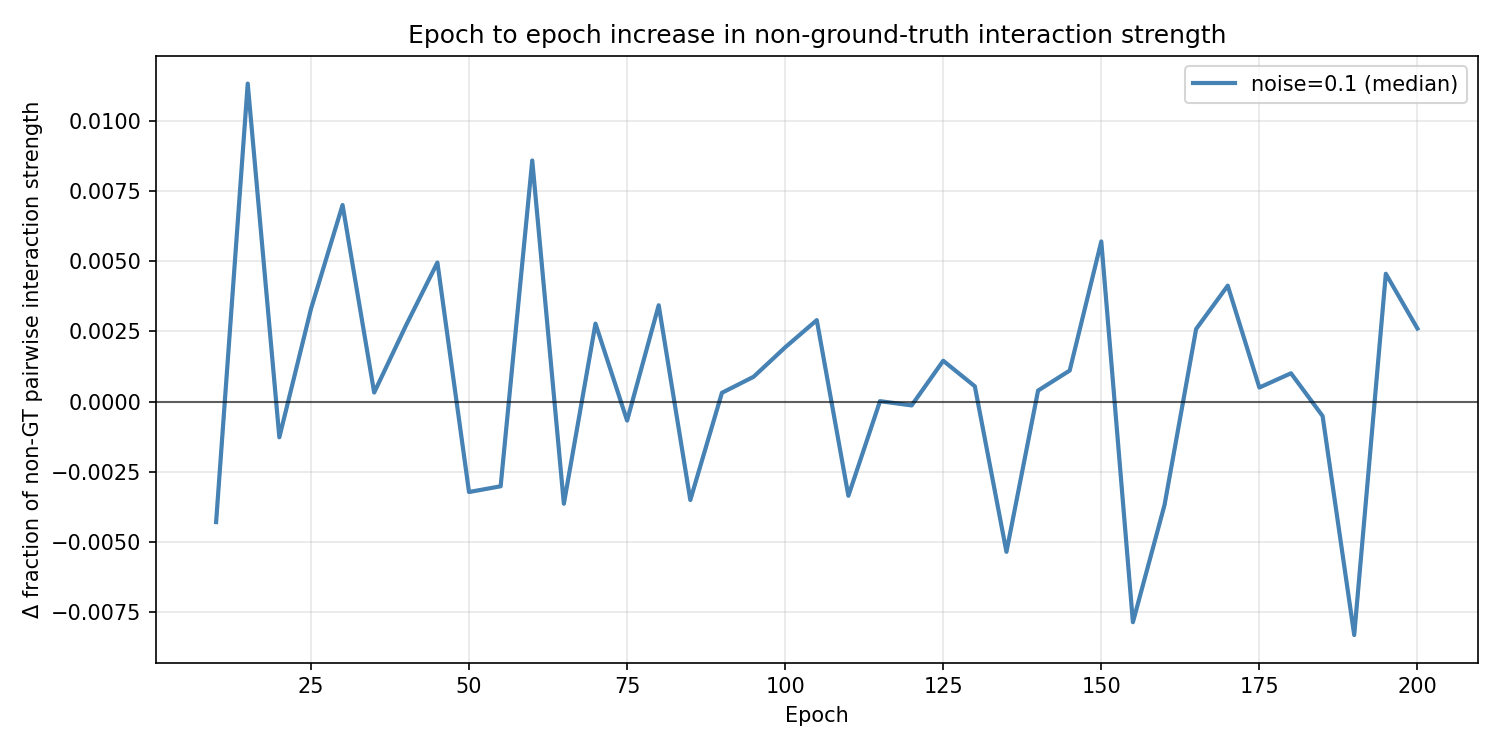
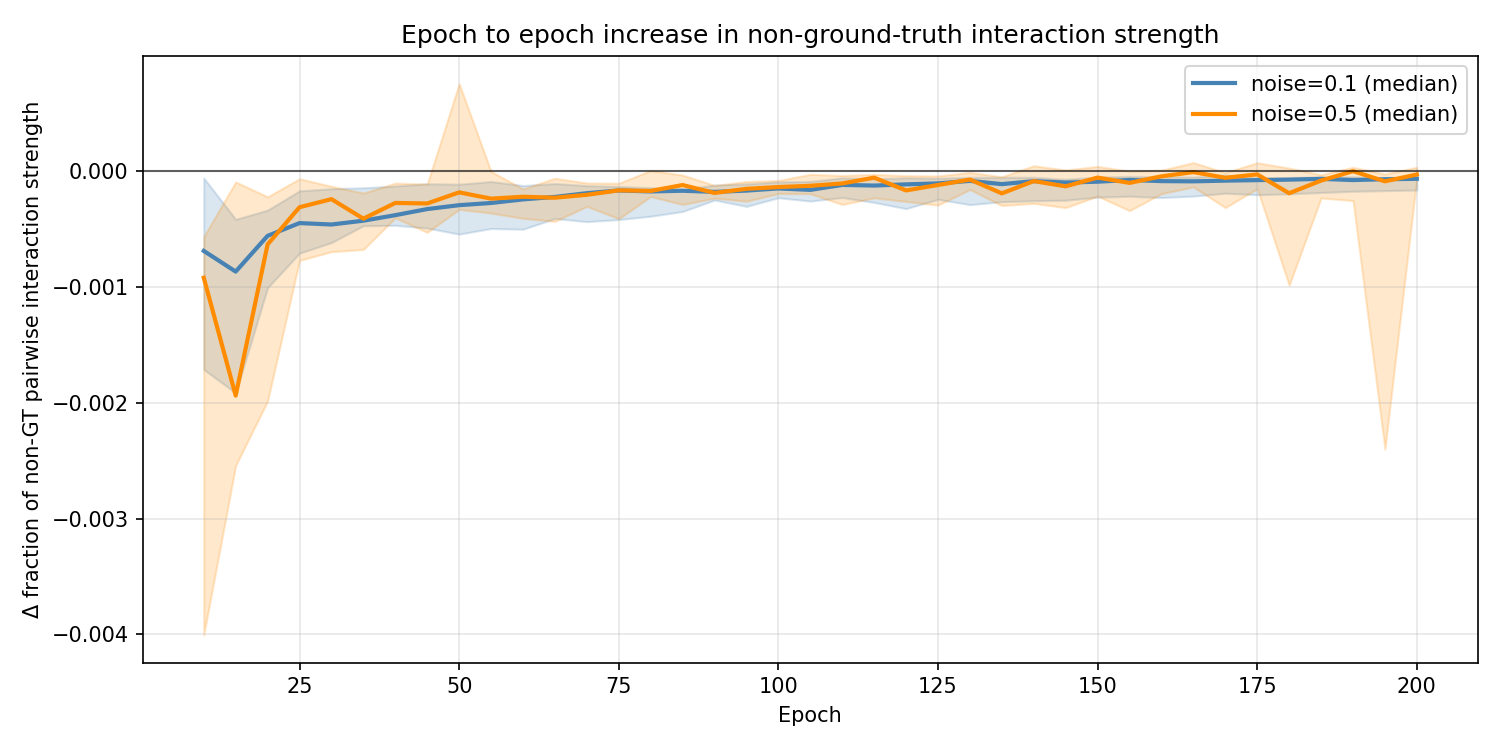
new plots for real this time

diff --git a/nid_plots.py b/nid_plots.py
@@ -40,11 +40,8 @@ class NIDPlotConfig:
     fallback_snapshot_dirs: tuple[str, ...] = tuple(SNAPSHOT_FALLBACK_DIRS)
     fallback_function: int = 0
     fallback_noise: float = 0.1
-<<<<<<< HEAD
     device: str = "mps" if torch.backends.mps.is_available() else "cuda"
-=======
     device: str = "cuda"
->>>>>>> a8b7beb333241fd953edd67f66418cfd7de26c1a
 
 
 @dataclass
